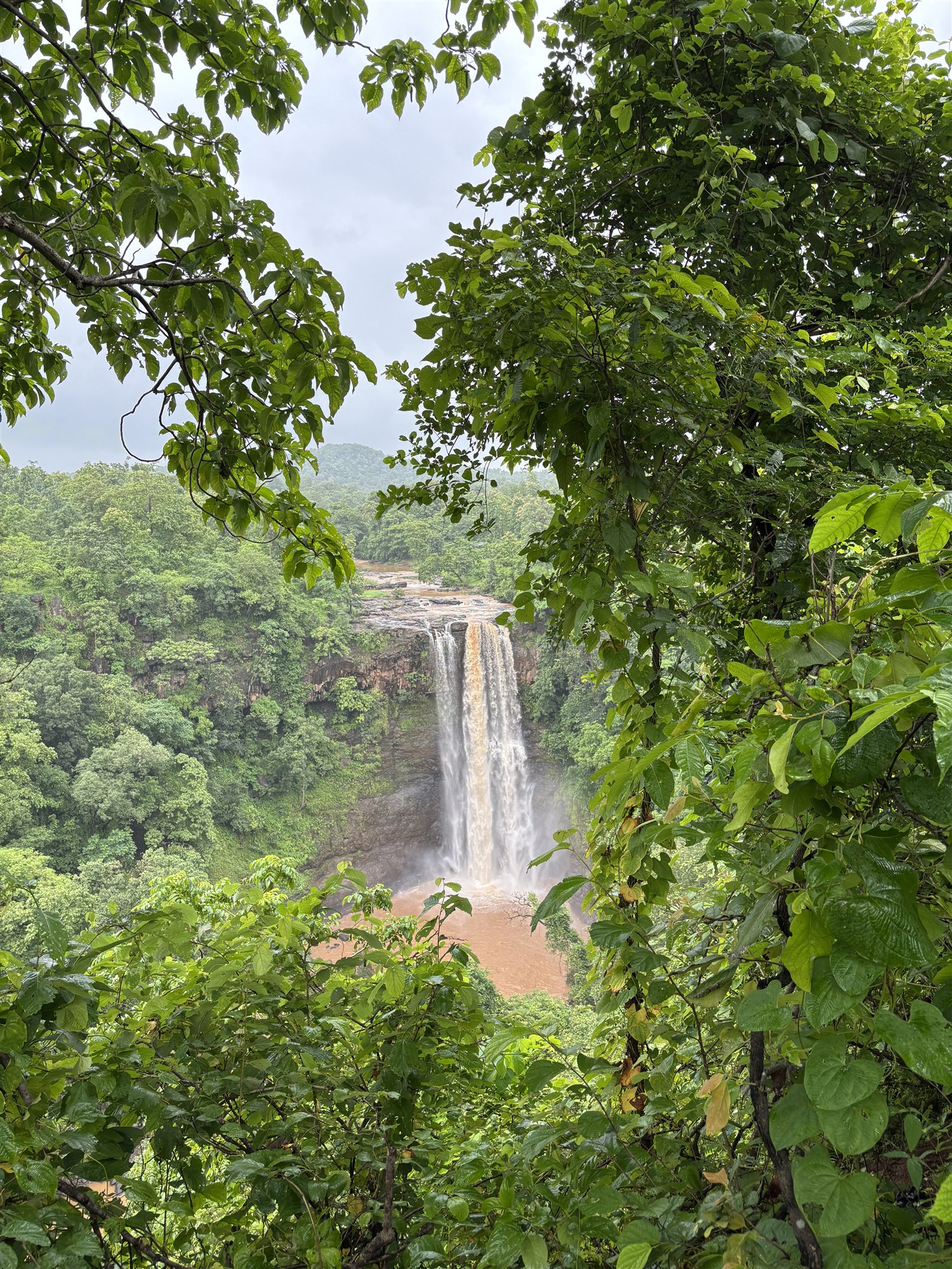
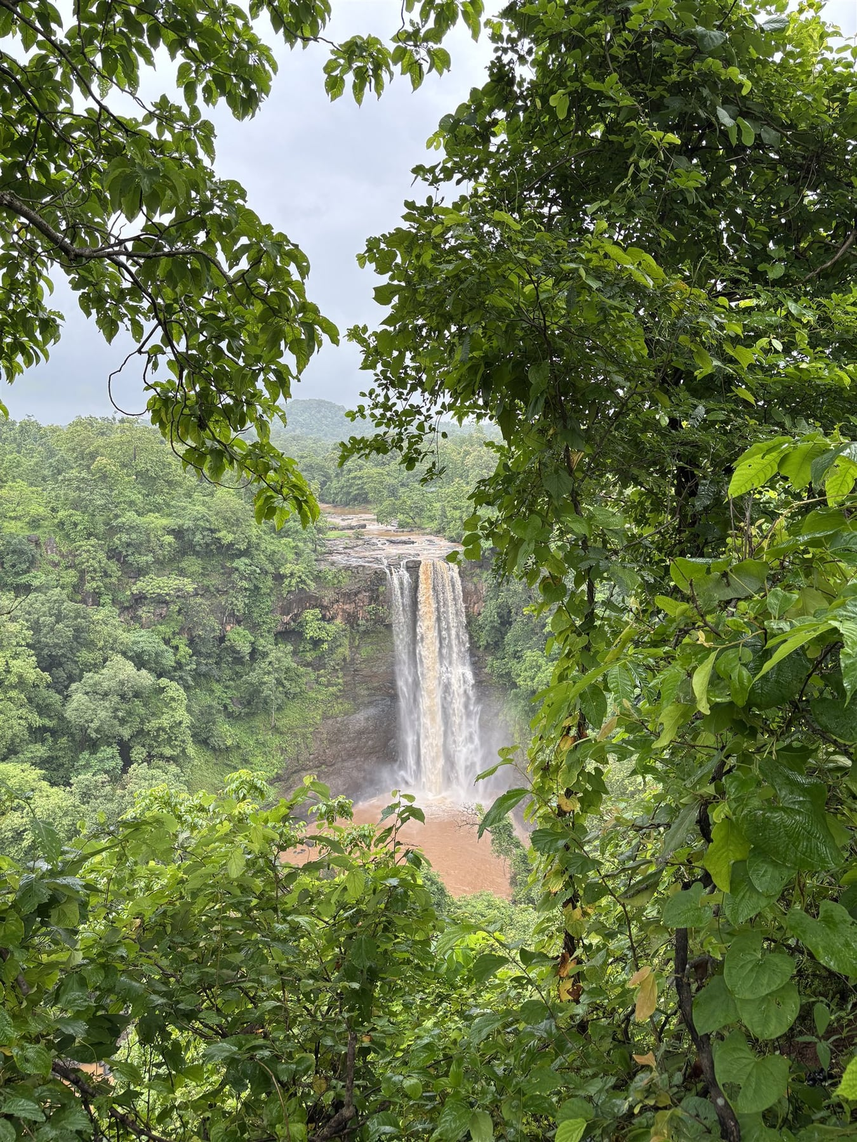
Cut the image payload, and stop guessing at the JS
The Open Graph image was a full spot photograph at 1920x1080 and 1.3 MB.
next/image never touches it - crawlers, WhatsApp, Slack and every chat app
fetch the URL directly - so each link preview pulled 1.3 MB to draw a card a
few hundred pixels wide. It is now a purpose-built 1200x630 crop at 76 KB,
which is the size those previews actually ask for. Seventeen times smaller,
and the correct aspect ratio rather than a letterboxed 16:9.

Source photographs are capped at an 1800 px long edge and re-encoded with
mozjpeg. Several were 4:4:4 chroma - no subsampling - which is why a phone
snapshot of a hillside weighed 1.3 MB. 23.9 MB to 16.7, and files over 500 KB
from 23 down to 9. This is not what visitors download, since next/image
derives its own sizes, but it cuts repo weight, build time and per-image
optimisation work. I checked the most-reduced file by eye before applying:
foliage detail and cloud gradients hold at quality 84.

SpotCard takes a `priority` prop and the first row of the /spots grid uses it.
That page is nothing but a grid, and every card image was lazy, so the LCP
element was discovered only after CSS and JS had parsed with no preload hint
at all. There is now one.

What I did NOT keep: LazyMotion was being handed `domAnimation` directly,
which defeats the point of LazyMotion, so I moved the bundle behind a loader
function as the docs describe. Measured, it bought nothing - the homepage went
[…]

diff --git a/web/components/spot-card.tsx b/web/components/spot-card.tsx
@@ -25,7 +25,15 @@ const confidenceDot: Record<string, string> = {
   low: "bg-stone-300",
 };
 
-export function SpotCard({ spot }: { spot: SpotCardData }) {
+/**
+ * `priority` on the first few cards of a grid.
+ *
+ * Every card image was lazy, so on /spots — a page that is nothing but a grid —
+ * the LCP element was discovered only after CSS and JS had parsed, with no
+ * preload hint at all. The cards above the fold should be eager; the other
+ * hundred should not.
+ */
+export function SpotCard({ spot, priority }: { spot: SpotCardData; priority?: boolean }) {
   const meta = categoryMeta(spot.category);
   return (
     <Link
@@ -41,6 +49,7 @@ export function SpotCard({ spot }: { spot: SpotCardData }) {
             src={spot.image}
             alt=""
             fill
+            priority={priority}
             sizes="(min-width: 1024px) 30vw, (min-width: 640px) 45vw, 100vw"
             className="object-cover transition-transform duration-700 ease-out group-hover:scale-105"
           />

diff --git a/web/components/spot-explorer.tsx b/web/components/spot-explorer.tsx
@@ -204,7 +204,7 @@ export function SpotExplorer({ spots }: { spots: SpotCardData[] }) {
       {filtered.length > 0 ? (
         <div className="group/cards mt-8 grid gap-4 sm:grid-cols-2 lg:grid-cols-3">
           <AnimatePresence mode="popLayout">
-            {filtered.map((spot) => (
+            {filtered.map((spot, i) => (
               <m.div
                 key={`${spot.district}-${spot.slug}`}
                 layout
@@ -213,7 +213,8 @@ export function SpotExplorer({ spots }: { spots: SpotCardData[] }) {
                 exit={{ opacity: 0, scale: 0.92 }}
                 transition={{ duration: 0.25, ease: "easeOut" }}
               >
-                <SpotCard spot={spot} />
+                {/* the first row on the widest grid — the LCP candidates */}
+                <SpotCard spot={spot} priority={i < 3} />
               </m.div>
             ))}
           </AnimatePresence>

diff --git a/web/components/motion-provider.tsx b/web/components/motion-provider.tsx
@@ -6,6 +6,14 @@ import type { ReactNode } from "react";
 /**
  * Motion guardrails (per specs/09): LazyMotion + `m` components only,
  * reduced-motion respected, transform/opacity animations only.
+ *
+ * `features` is the bundle itself rather than a loader, deliberately. Passing
+ * `() => import(...)` is the documented way to defer the animation runtime, and
+ * it was tried here — but measured, the initial payload did not move: the
+ * homepage went 227 to 228 KB gz, and two initial chunks still carried the
+ * feature code. Every page mounts an `m` element from the same module, so the
+ * bundler has no seam to split on. The indirection bought nothing, so it is
+ * gone. Revisit only if `m` usage ever becomes route-specific.
  */
 export function MotionProvider({ children }: { children: ReactNode }) {
   return (

diff --git a/web/lib/site.ts b/web/lib/site.ts
@@ -12,8 +12,13 @@ export const SITE = {
   title: "Dandak — Dang & Narmada Travel Guide",
   description:
     "Waterfalls, forests, the Statue of Unity and living tribal heritage — a verified, source-tracked travel guide to Gujarat's Dang and Narmada districts.",
-  /** 1920×1080, the ratio link previews actually want */
-  ogImage: "/images/spots/dang-don-hill.jpg",
+  /**
+   * A purpose-built 1200×630 crop, which is the size link previews actually
+   * want. This used to point at a full spot photograph: crawlers and chat apps
+   * fetch the URL directly, so next/image never touched it and every preview
+   * pulled 1.3 MB to render a card a few hundred pixels wide.
+   */
+  ogImage: "/images/og-default.jpg",
   locale: "en_IN",
 } as const;
 

diff --git a/web/app/layout.tsx b/web/app/layout.tsx
@@ -37,7 +37,7 @@ export const metadata: Metadata = {
     url: SITE.url,
     title: SITE.title,
     description: SITE.description,
-    images: [{ url: SITE.ogImage, width: 1920, height: 1080, alt: "Don hill, interior Dang" }],
+    images: [{ url: SITE.ogImage, width: 1200, height: 630, alt: "Don hill, interior Dang" }],
   },
   twitter: {
     card: "summary_large_image",
